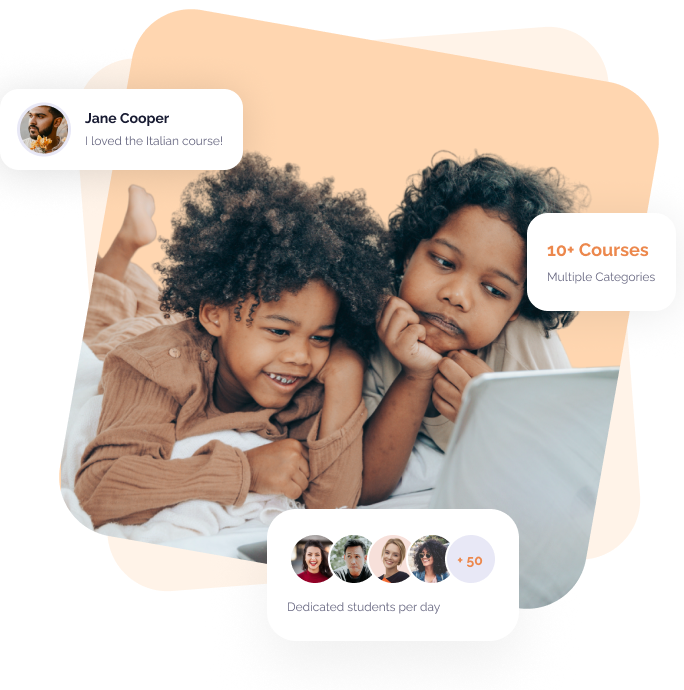
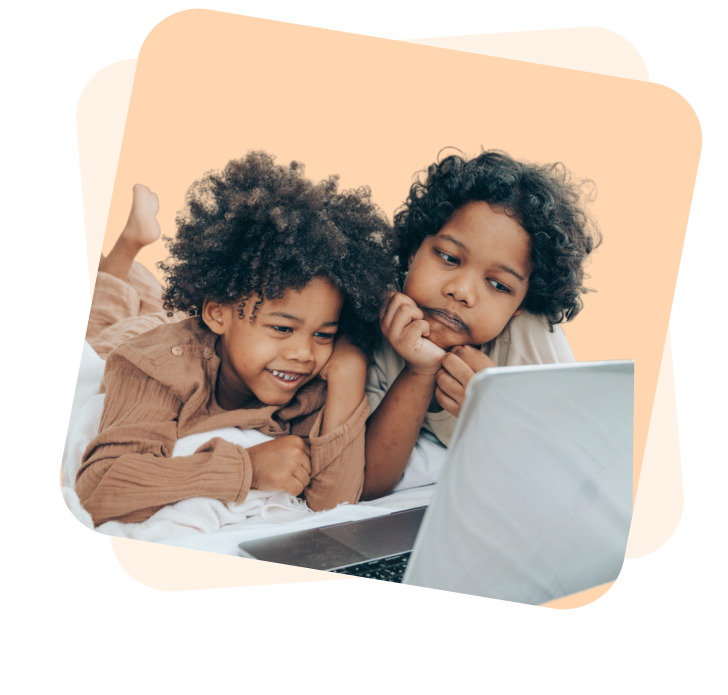
Modified Landing Page and why choose us section

Changed region(s): [[0.0307, 0.0304, 0.9518, 0.8826], [0.9211, 0.1217, 0.9518, 0.1522]]

diff --git a/src/App.tsx b/src/App.tsx
@@ -43,10 +43,15 @@ const App = () => {
         </div>
 
         <div className="landing_body">
+        <div className="extras_one">
+                {/* <img src="../img/girl2.png" alt="" className="extras_img"/> */}
+                <img src="../img/boy2.png" alt="" className="extras_img"/>
+          </div>
           <div className="landing_text_body">
             <div className="landing_text">
-              <span className="span_text"> Unlock </span> your <br />{" "}
-              <span className="span_text"> Child's </span>Potentials
+              <span className="span_text"> Unlock </span> your Child's{" "}
+              <span className="span_text"> Potentials</span> with Our{" "}
+              <span className="span_text"> Exciting</span> Programs
             </div>
             <div className="landing_subtext">
               Learn at your own pace, we have tutors <br />
@@ -66,8 +71,9 @@ const App = () => {
             />
           </div>
 
-          <div className="landing_img_box">
-            <img src="../img/landing_img.png" alt="" className="landing_img" />
+          <div className="extras">
+                <img src="../img/boy.png" alt="" className="extras_img"/>
+                <img src="../img/girl.png" alt="" className="extras_img"/>
           </div>
         </div>
       </div>
@@ -75,9 +81,9 @@ const App = () => {
       <div className="program_main">
         <div className="program_main_header">WHY CHOOSE US</div>
         <div className="program_box">
-          <div className="program_section">
-            <div className="program_title">Programs</div>
-            <div className="program_subtitle">
+          <div className="program_section_one">
+            <div className="program_title_one">Programs</div>
+            <div className="program_subtitle_one">
               Our programs are designed to <br /> develop your children
             </div>
           </div>
@@ -89,9 +95,9 @@ const App = () => {
             </div>
           </div>
 
-          <div className="program_section">
-            <div className="program_title">Creative Thinking</div>
-            <div className="program_subtitle">
+          <div className="program_section_one">
+            <div className="program_title_one">Creative Thinking</div>
+            <div className="program_subtitle_one">
               Our programs are designed to <br /> develop your children
             </div>
           </div>
@@ -107,13 +113,108 @@ const App = () => {
 
       <div className="classes_section">
         <div className="class_box">
-          <div className="class_box_text">
-            Personal In-Person <br />
-            classroom encouraged <br /> students to
+          <div className="class_box_content">
+            <div className="class_box_text">
+              Our Personal In-Person <br />
+              classroom encouraged <br /> students to
+            </div>
+
+            <div className="content_list">
+              <div className="content_list_box">
+                <img
+                  src="../img/checked.png"
+                  alt=""
+                  className="content_list_item_img"
+                />
+              </div>
+              <div className="content_list_item">
+                Focus on long period of time
+              </div>
+            </div>
+
+            <div className="content_list">
+              <div className="content_list_box">
+                <img
+                  src="../img/checked.png"
+                  alt=""
+                  className="content_list_item_img"
+                />
+              </div>
+              <div className="content_list_item">
+                Focus on long period of time
+              </div>
+            </div>
+
+            <div className="content_list">
+              <div className="content_list_box">
+                <img
+                  src="../img/checked.png"
+                  alt=""
+                  className="content_list_item_img"
+                />
+              </div>
+              <div className="content_list_item">
+                Focus on long period of time
+              </div>
+            </div>
           </div>
         </div>
         <div className="class_box">
+          <div className="class_box_content">
             <img src="../img/classes.jpg" alt="" />
+          </div>
+        </div>
+      </div>
+
+      <div className="superstars_container">
+        <div className="superstar_header">Meet our SuperStars</div>
+
+        <div className="superstars_main">
+          {/* <div className="superstars_box">
+            <img src="../img/1.jpg" alt="" />
+            <div className="superstar_name">Sekina Daniel</div>
+          </div>
+
+          <div className="superstars_box">
+            <img src="../img/1.jpg" alt="" />
+            <div className="superstar_name">Sekina Daniel</div>
+          </div> */}
+
+          <div className="superstars_box">
+            <img src="../img/1.jpg" alt="" className="superstars_box_img" />
+            <div className="superstar_name_box">
+              <img
+                src="../img/canada.png"
+                alt=""
+                className="superstars_flag_img"
+              />
+              <div className="superstar_name">Sekina Daniel</div>
+            </div>
+          </div>
+
+          <div className="superstars_box">
+            <img src="../img/2.jpg" alt="" className="superstars_box_img" />
+            <div className="superstar_name_box">
+              <img
+                src="../img/canada.png"
+                alt=""
+                className="superstars_flag_img"
+              />
+              <div className="superstar_name">Sekina Daniel</div>
+            </div>
+          </div>
+
+          <div className="superstars_box">
+            <img src="../img/3.jpg" alt="" className="superstars_box_img" />
+            <div className="superstar_name_box">
+              <img
+                src="../img/canada.png"
+                alt=""
+                className="superstars_flag_img"
+              />
+              <div className="superstar_name">Sekina Daniel</div>
+            </div>
+          </div>
         </div>
       </div>
     </div>

diff --git a/src/App.css b/src/App.css
@@ -50,17 +50,23 @@
   border-bottom: 4px solid #ec884d;
   transition: 0.3s all;
   font-weight: bold;
+  cursor: pointer;
 }
 
 .landing_body {
-  padding: 1rem 0rem;
+  height: 70vh;
   display: flex;
+  flex-direction: column;
+  align-items: center;
+  justify-content: center;
 }
 
 .landing_text_body {
   display: flex;
+  align-items: center;
   justify-content: center;
   flex-direction: column;
+  /* text-align: center; */
   width: 60%;
 }
 
@@ -76,6 +82,7 @@
   padding: 1rem 0rem;
   color: #666680;
   font-style: italic;
+  text-align: center;
 }
 
 .span_text {
@@ -84,27 +91,36 @@
   font-weight: bolder;
 }
 
-.landing_img_box {
-  width: 70%;
+.extras {
+  width: 100%;
   display: flex;
   align-items: center;
-  justify-content: flex-start;
+  justify-content: space-between;
+  padding-top: 5rem;
 }
 
-.landing_img {
-  width: 90%;
+.extras_one {
+  margin-top: 10rem;
+  display: flex;
+  align-items: center;
+  justify-content: flex-end;
+}
+
+.extras_img {
+  width: 10%;
+  filter: drop-shadow(10px 3px 3px #ec874d51);
 }
 
 .program_main {
   padding: 4rem 12rem;
 }
 
-.program_main_header{
-    color: #4d7a9d;
-    font-weight: 600;
-    text-align: center;
-    padding: 1rem;
-    font-size: 1.5rem;
+.program_main_header {
+  color: #4d7a9d;
+  font-weight: 600;
+  text-align: center;
+  padding: 1rem;
+  font-size: 1.5rem;
 }
 
 .program_box {
@@ -122,6 +138,12 @@
   border-radius: 2rem;
 }
 
+.program_section_one{
+  padding: 2rem;
+  border-radius: 2rem;
+  background-color:white;
+}
+
 .program_section:hover {
   background-color: white;
   transition: 0.3s all ease-in-out;
@@ -136,35 +158,131 @@
   font-weight: bold;
 }
 
+.program_title_one {
+  color: #ec884d;
+  font-family: "Autour One";
+  font-size: 1.3rem;
+  font-weight: bold;
+}
+
 .program_section:hover .program_title,
 .program_section:hover .program_subtitle {
   color: #ec884d;
   transition: 0.3s all ease-in-out;
 }
+
+.program_section_one:hover{
+  border: 1px solid white;
+  background-color: #ec884d;
+  transition: 0.3s all ease-in-out;
+  transform: scale(0.9);
+
+} 
+.program_section_one:hover .program_title_one,
+.program_section_one:hover .program_subtitle_one {
+  color: white;
+  transition: 0.3s all ease-in-out;
+}
+
 .program_subtitle {
   color: #fff;
   padding-top: 1rem;
 }
+
+.program_subtitle_one{
+  color: #ec884d;
+  padding-top: 1rem;
+}
+
 
 .classes_section {
   padding: 4rem 12rem;
   display: flex;
   align-items: center;
   justify-content: space-between;
-  border: 1px solid red;
 }
 
-.class_box{
-
+.class_box {
+  flex: 1;
 }
 
-.class_box_text{
+.class_box_content {
+  display: flex;
+  flex-direction: column;
+}
+
+.class_box img {
+  width: 100%;
+  border-radius: 4rem;
+}
+
+.class_box_text {
   font-family: "Autour One";
   color: #ec884d;
   font-size: 3rem;
   font-weight: bold;
 }
 
-.class_box img{
-  width: 50%;
+.content_list {
+  display: flex;
+  padding: 1rem;
+}
+.content_list_box {
+  width: 3%;
+}
+
+.content_list_item {
+  padding-left: 1rem;
+  font-size: 1.2rem;
+  font-family: "Autour One";
+}
+
+.content_list_item_img {
+  /* width: %; */
+  /* border: none; */
+}
+
+.superstars_container {
+  padding: 2rem 12rem;
+  color: #ec884d;
+  font-size: 2rem;
+  font-weight: bold;
+}
+.superstar_header {
+  font-family: "Autour One";
+}
+
+.superstars_main {
+  border: 1px solid red;
+  padding-top: 2rem;
+  display: flex;
+  justify-content: space-between;
+}
+
+.superstars_box {
+  display: flex;
+  flex-direction: column;
+  align-items: center;
+}
+
+.superstars_box_img {
+  width: 70%;
+  border-radius: 1.5rem;
+}
+
+.superstar_name_box {
+  padding-top: 1rem;
+  display: flex;
+  align-items: center;
+  justify-content: center;
+}
+
+.superstar_name {
+  font-size: 1.3rem;
+  font-weight: 500;
+  margin-left: 0.5rem;
+}
+
+.superstars_flag_img {
+  width: 15%;
 }
